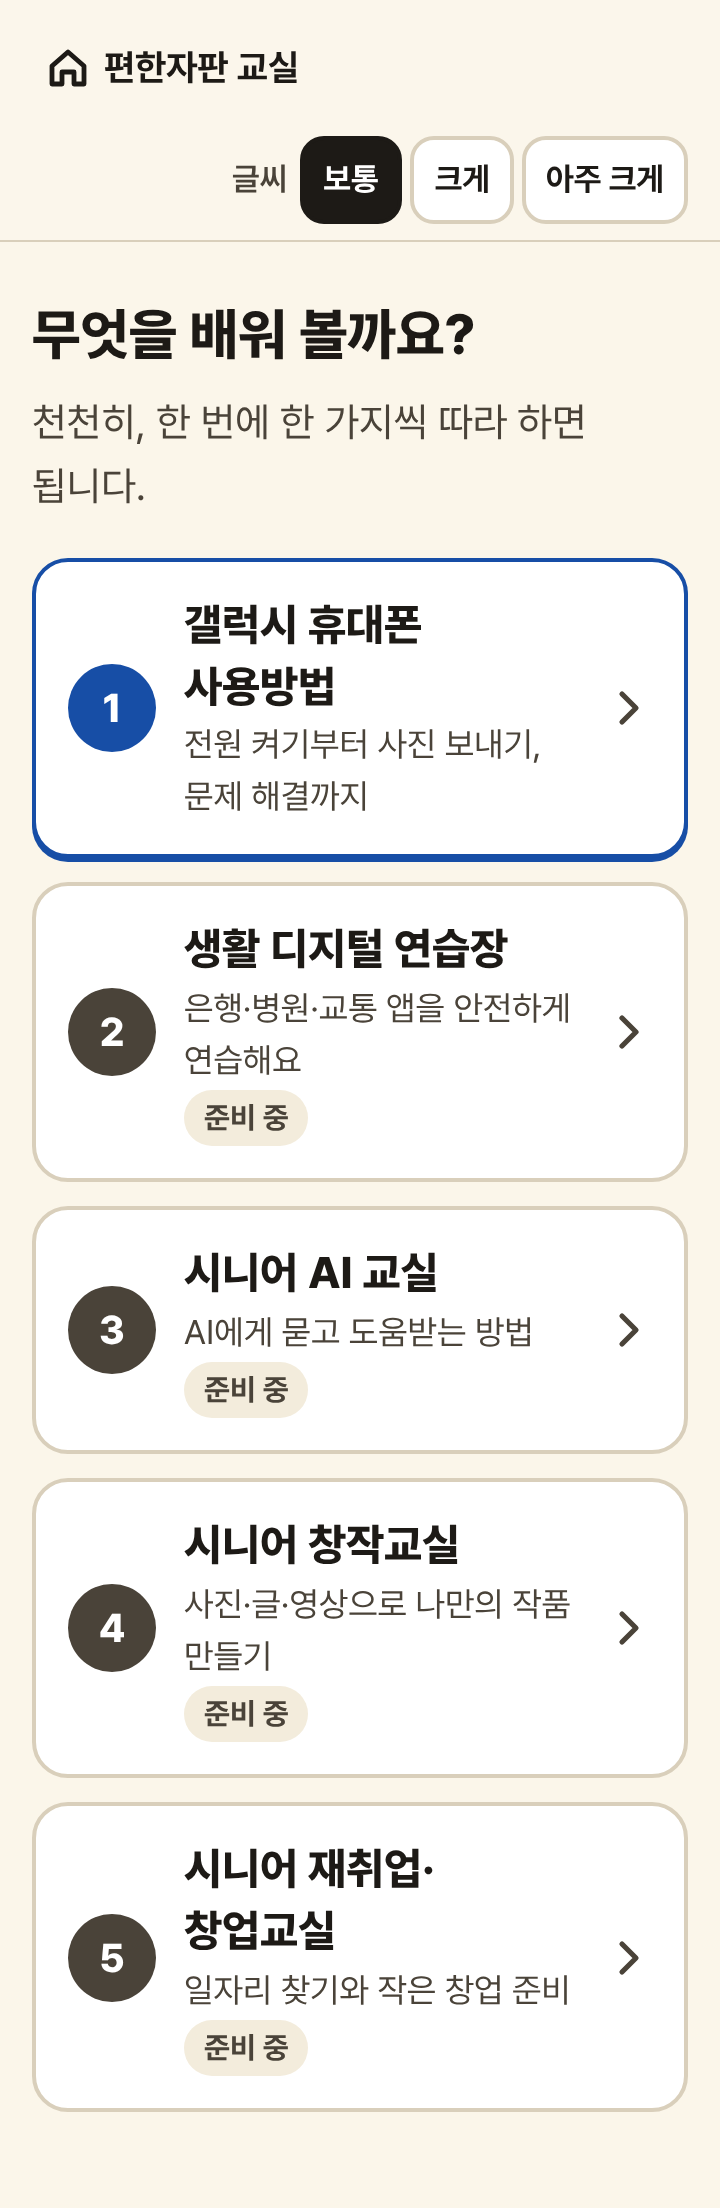
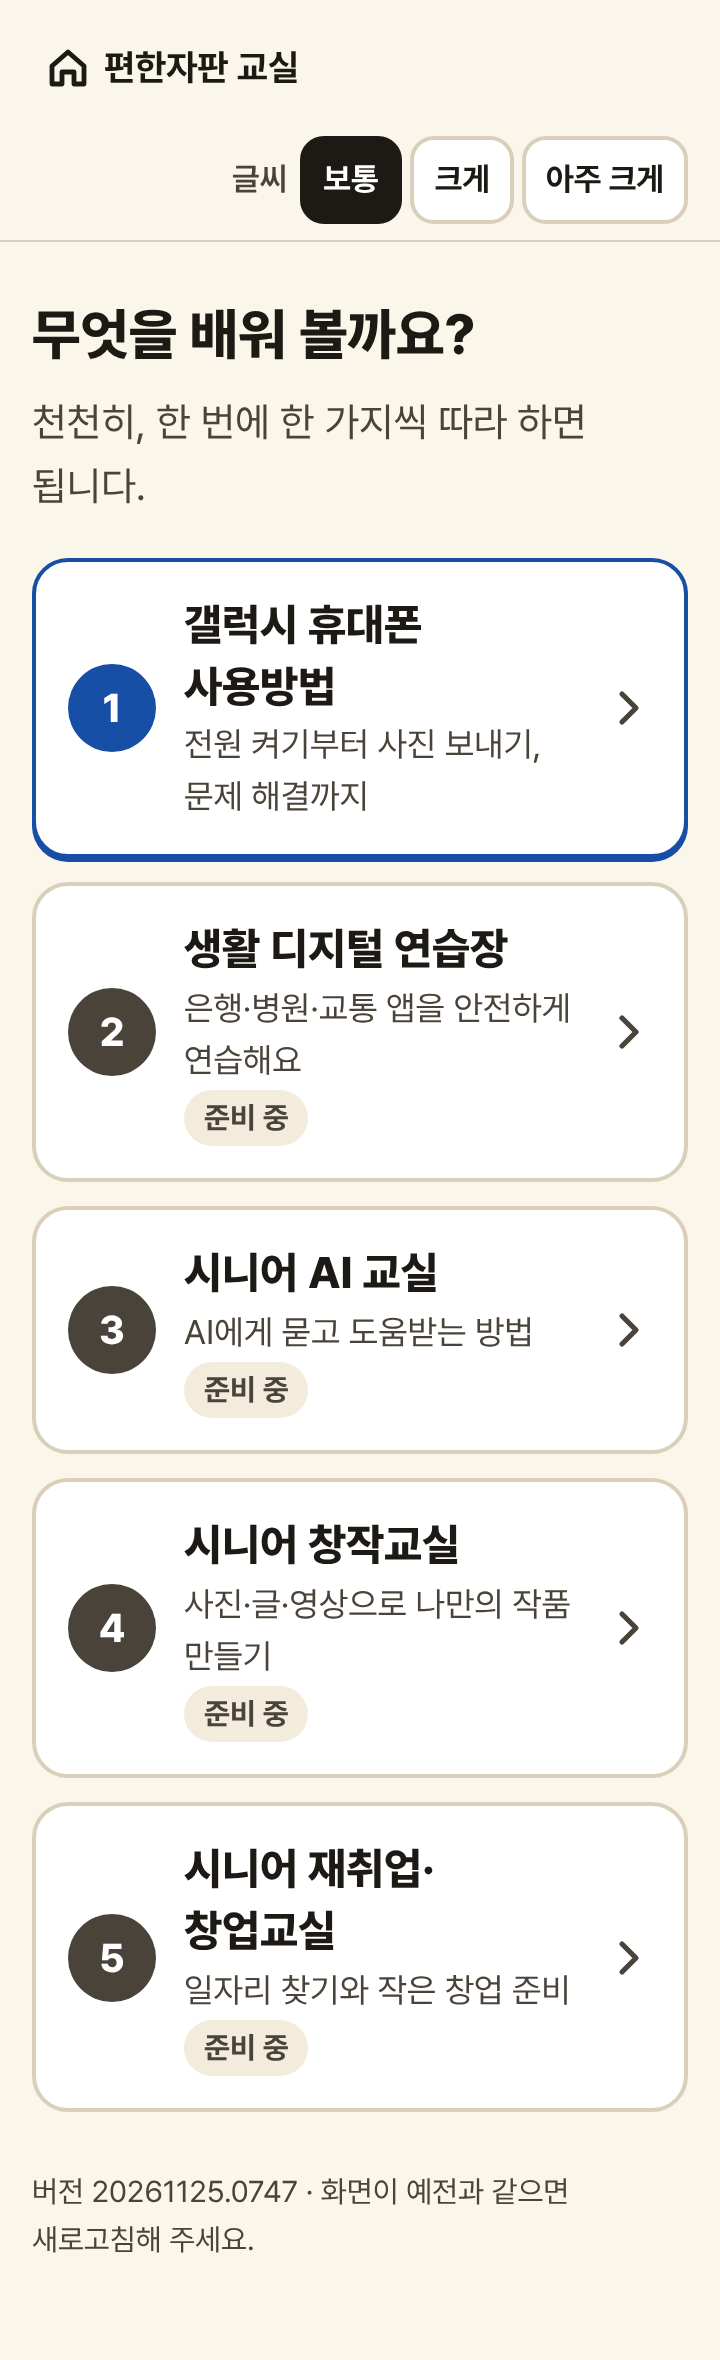
새 버전 배포 시 브라우저가 예전 파일을 쓰지 않도록 버전 번호 붙이기
- scripts/bump-version.mjs: 모든 js·css 주소에 ?v=버전, assets/version.js
- 홈 화면 아래 버전 표시, index.html no-cache

Claude-Session: https://claude.ai/code/session_01Q3BcEgi969WHnWAarB2Rma

diff --git a/assets/app.js b/assets/app.js
@@ -12,11 +12,12 @@
  *
  * 진행 상황과 글씨 크기는 이 기기의 localStorage 에만 저장한다(서버로 보내지 않음).
  */
-import { CATEGORIES } from '../data/categories.js';
-import { CHAPTERS, GROUPS, findLesson, allLessons } from '../data/galaxy/index.js';
-import { BASE } from '../data/galaxy/helpers.js';
-import { renderScreen } from './screens.js';
-import { appInfo, appIconStandalone } from './apps.js';
+import { CATEGORIES } from '../data/categories.js?v=20261125.0747';
+import { CHAPTERS, GROUPS, findLesson, allLessons } from '../data/galaxy/index.js?v=20261125.0747';
+import { BASE } from '../data/galaxy/helpers.js?v=20261125.0747';
+import { renderScreen } from './screens.js?v=20261125.0747';
+import { appInfo, appIconStandalone } from './apps.js?v=20261125.0747';
+import { VERSION } from './version.js?v=20261125.0747';
 
 const STORE_KEY = 'dojeon365.galaxy.v1';
 const app = document.getElementById('app');
@@ -88,6 +89,7 @@ function viewHome() {
           ${ICON.chev}
         </a></li>`).join('')}
     </ul>
+    <p class="version">버전 ${esc(VERSION)} · 화면이 예전과 같으면 새로고침해 주세요.</p>
   </main>`;
 }
 

diff --git a/data/galaxy/ch14-22.js b/data/galaxy/ch14-22.js
@@ -1,5 +1,5 @@
 /** [응용] 14~18, [고급 및 문제 해결] 19~22 */
-import { lesson, app, tap, menu, path, toggle, self, look, swipe, hold, back, goHome, openQuick, M, SRC, MENUS, SIDE, HOME, QUICK, PRACTICE_ONLY } from './helpers.js';
+import { lesson, app, tap, menu, path, toggle, self, look, swipe, hold, back, goHome, openQuick, M, SRC, MENUS, SIDE, HOME, QUICK, PRACTICE_ONLY } from './helpers.js?v=20261125.0747';
 
 const WALLET = { kind: 'app', title: '월렛', back: false, actions: ['추가'], hero: '결제 카드 ●●●● 1234', heroName: '결제 카드', heroColor: '#283593', lines: ['교통 카드 · 멤버십 · 모바일 신분증'] };
 const WALLET_ADD = { kind: 'dialog', style: 'sheet', title: '추가', buttons: ['결제 카드', '교통 카드', '모바일 신분증', '멤버십', '티켓·쿠폰'] };

diff --git a/index.html b/index.html
@@ -9,9 +9,9 @@
 <title>편한자판 시니어 교육</title>
 <link rel="icon" href="assets/icon.svg" type="image/svg+xml">
 <link rel="manifest" href="site.webmanifest">
-<link rel="stylesheet" href="assets/fonts/pretendard/pretendardvariable-dynamic-subset.css">
-<link rel="stylesheet" href="assets/app.css">
-<script type="module" src="assets/app.js"></script>
+<link rel="stylesheet" href="assets/fonts/pretendard/pretendardvariable-dynamic-subset.css?v=20261125.0747">
+<link rel="stylesheet" href="assets/app.css?v=20261125.0747">
+<script type="module" src="assets/app.js?v=20261125.0747"></script>
 </head>
 <body>
 <a class="sr-only" href="#main">본문 바로가기</a>

diff --git a/data/galaxy/ch07-13.js b/data/galaxy/ch07-13.js
@@ -1,5 +1,5 @@
 /** [생활] 07~13 */
-import { lesson, app, tap, menu, path, toggle, self, look, swipe, hold, back, goHome, openQuick, openNoti, M, SRC, MENUS, SIDE, HOME, APPS, QUICK, NOTI, PRACTICE_ONLY } from './helpers.js';
+import { lesson, app, tap, menu, path, toggle, self, look, swipe, hold, back, goHome, openQuick, openNoti, M, SRC, MENUS, SIDE, HOME, APPS, QUICK, NOTI, PRACTICE_ONLY } from './helpers.js?v=20261125.0747';
 
 const Q = (on) => ({ ...QUICK, on });
 

diff --git a/data/galaxy/ch01-06.js b/data/galaxy/ch01-06.js
@@ -1,5 +1,5 @@
 /** [기초] 01~06 */
-import { lesson, app, tap, menu, path, toggle, self, look, swipe, hold, back, goHome, M, SRC, MENUS, SIDE, HOME, APPS, PHONE_TABS, PRACTICE_ONLY } from './helpers.js';
+import { lesson, app, tap, menu, path, toggle, self, look, swipe, hold, back, goHome, M, SRC, MENUS, SIDE, HOME, APPS, PHONE_TABS, PRACTICE_ONLY } from './helpers.js?v=20261125.0747';
 
 const POWER = { kind: 'dialog', style: 'power' };
 

diff --git a/data/galaxy/index.js b/data/galaxy/index.js
@@ -1,7 +1,7 @@
 /** 갤럭시 휴대폰 사용방법: 22개 목차 */
-import { BASIC } from './ch01-06.js';
-import { LIFE } from './ch07-13.js';
-import { APPLY, ADV } from './ch14-22.js';
+import { BASIC } from './ch01-06.js?v=20261125.0747';
+import { LIFE } from './ch07-13.js?v=20261125.0747';
+import { APPLY, ADV } from './ch14-22.js?v=20261125.0747';
 
 export const GROUPS = [
   { id: 'basic', title: '기초' },

diff --git a/assets/screens.js b/assets/screens.js
@@ -9,7 +9,7 @@
  * - 실제 갤럭시 사진으로 바꿀 때는 card.photo 를 넣으면 이 그림 대신 사진이 쓰인다(app.js 참고).
  */
 
-import { appIconSvg, appInfo, settingIconSvg } from './apps.js';
+import { appIconSvg, appInfo, settingIconSvg } from './apps.js?v=20261125.0747';
 
 const W = 360;
 const H = 640;

diff --git a/data/galaxy/helpers.js b/data/galaxy/helpers.js
@@ -16,7 +16,7 @@
  * 메뉴 이름은 삼성전자 갤럭시 S26 시리즈 사용 설명서(Android 17, Rev.1.0, 2026년 9월)를 기준으로 한다.
  */
 
-import { appInfo } from '../../assets/apps.js';
+import { appInfo } from '../../assets/apps.js?v=20261125.0747';
 
 /* ---------- 출처 ---------- */
 

diff --git a/assets/app.css b/assets/app.css
@@ -244,3 +244,5 @@ svg { display: block; }
 @media (min-width: 48rem) {
   .page, .lesson__main { padding-top: 28px; }
 }
+
+.version { margin: 28px 0 0; font-size: 0.9375rem; color: var(--ink-2); }

diff --git a/assets/version.js b/assets/version.js
@@ -1,0 +1,2 @@
+/** 배포 버전(scripts/bump-version.mjs 가 적음) */
+export const VERSION = '20261125.0747';

diff --git a/docs/test-report.md b/docs/test-report.md
@@ -1,6 +1,6 @@
 # 브라우저 점검 결과
 
-- 실행: 2026-11-25 07:39 UTC, Chromium(Playwright), 360px 기준
+- 실행: 2026-11-25 07:49 UTC, Chromium(Playwright), 360px 기준, 대상 http://127.0.0.1:42061/
 - 결과: 59/59 통과
 
 | 항목 | 결과 | 비고 |
